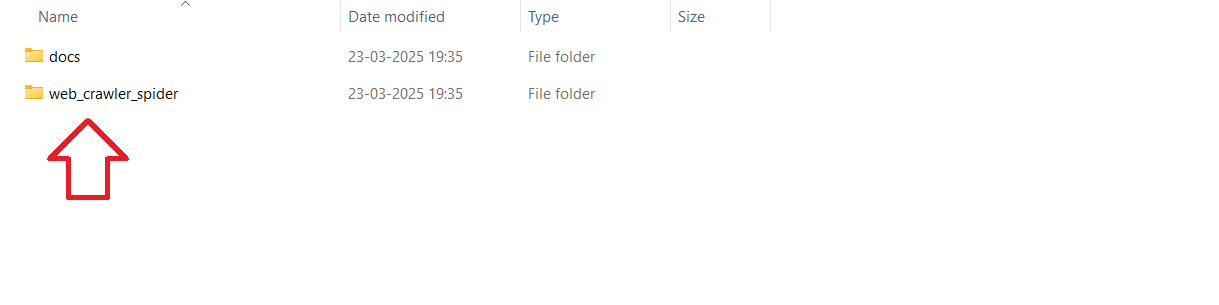
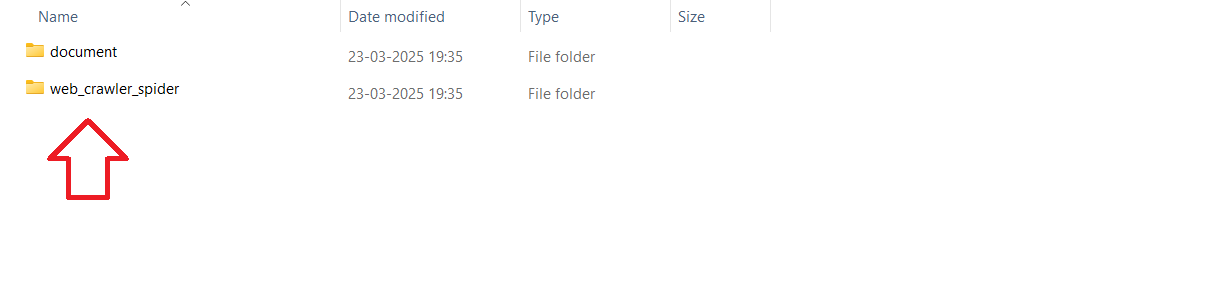
Shown youtube installation video

Changed region(s): [[0.0, 0.2656, 0.1559, 0.3246], [0.0, 0.1475, 0.0935, 0.2066]]

diff --git a/app/(docs)/(content)/docs/page.js b/app/(docs)/(content)/docs/page.js
@@ -44,6 +44,19 @@ const Docs = () => {
               <p className="mb-20" id="installation"></p>
               <Heading title={"Installation"}/>
               
+              <p className="mb-20" id="youtube"></p>
+              <div className="bg-red-100 p-4 rounded-md shadow-sm text-center">
+                <Heading_Two title={"Watch on YouTube"}/>
+                <Para para={
+                  <span>
+                    For a comprehensive, step-by-step installation guide, we also offer a detailed instructional video on YouTube. <br/>
+                    <Link href={"https://www.youtube.com/watch?v=jLI0zULD6cw"} target="_blank" className="my-3 inline-block text-white bg-red-500 hover:bg-red-600 rounded-sm py-2 px-3">
+                      Watch Now <i className="ri-youtube-fill"/> 
+                    </Link>
+                  </span>}
+                />
+              </div>
+
               <br/><br/>
               <Heading_Two title={"Initial setup"}/>
               <Para para={
@@ -58,7 +71,7 @@ const Docs = () => {
               <ul className="list-disc text-base ml-5">
                 <li>Locate the downloaded file, <Code title={"Web-Crawler-Spider.zip"}/>.</li>
                 <li>Right-click on the file and select "Extract All" (on Windows) or "Extract Here" (on macOS/Linux) to unzip it.</li>
-                <li>Choose a folder where you want to extract the contents. Once done, you will see a folder named <Code title={"Web-Crawler-Spider"}/>. Open this folder, and inside, you will find two more folders: <Code title={"/docs and /web_crawler_spider"}/>.
+                <li>Choose a folder where you want to extract the contents. Once done, you will see a folder named <Code title={"Web-Crawler-Spider"}/>. Open this folder, and inside, you will find two more folders: <Code title={"/document and /web_crawler_spider"}/>.
                 </li>
                 <li>
                   Simply open the <Code title={"/web_crawler_spider"}/> this will be your main project directory.

diff --git a/shared/layout-components/public-comp/DownloadSection.js b/shared/layout-components/public-comp/DownloadSection.js
@@ -161,13 +161,14 @@ const DownloadSection = () => {
                 Explore Docs
               </a>
               <span>OR</span>
-              <button 
-                onClick={()=>window.alert(`We will launch our video tutorial shortly!`)}
+              <Link 
+                href={"https://www.youtube.com/watch?v=jLI0zULD6cw"}
+                target='_blank'
                 className="flex bg-indigo-600 justify-center rounded-xl shadow-lg text-white duration-300 gap-2 hover:bg-indigo-700 hover:scale-105 hover:shadow-xl items-center px-5 py-3 transform transition-all"
               >
                 <i className="text-xl ri-video-line"></i>
                 Watch a Video
-              </button>
+              </Link>
             </div>
           </div>
 
